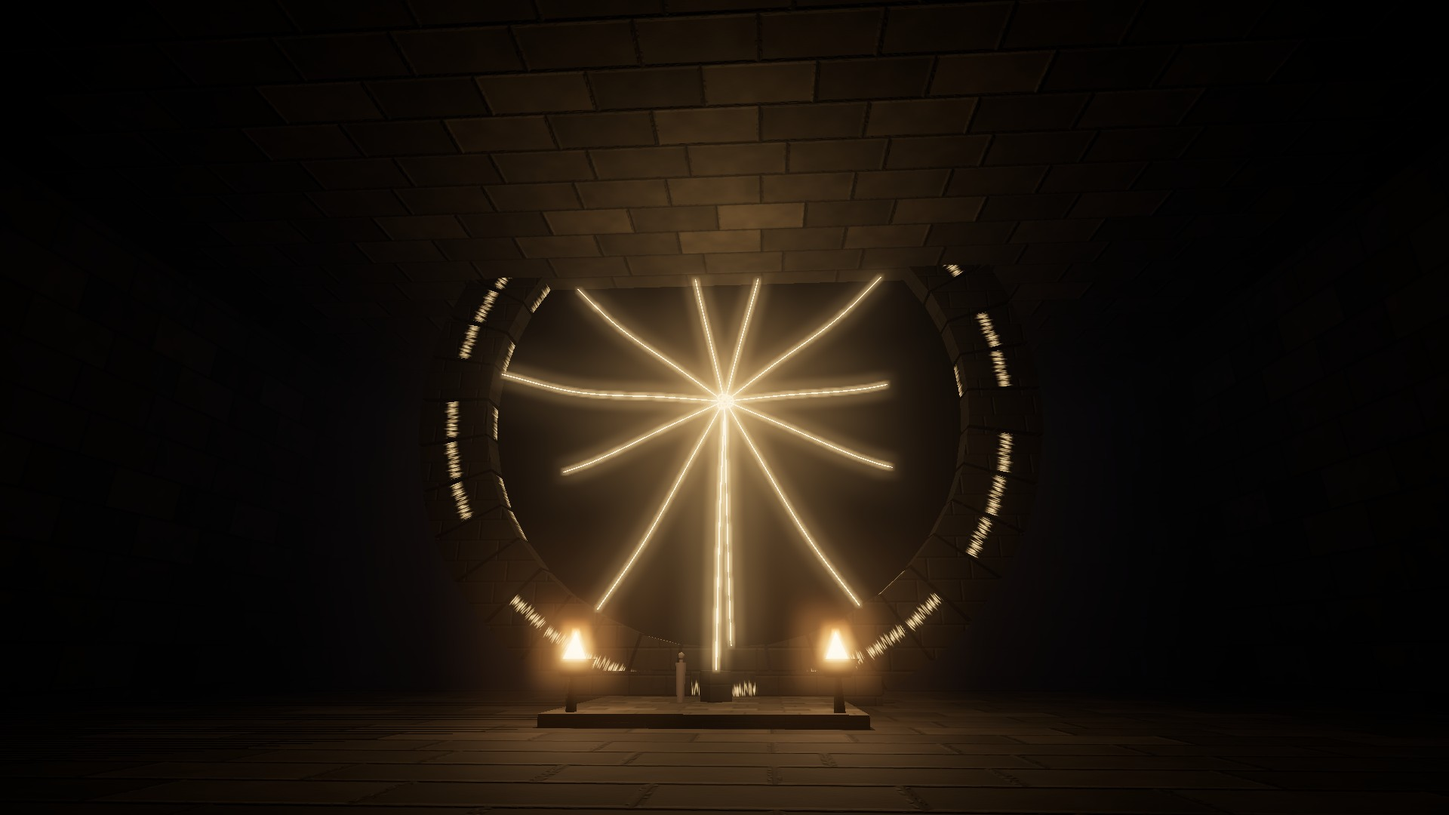
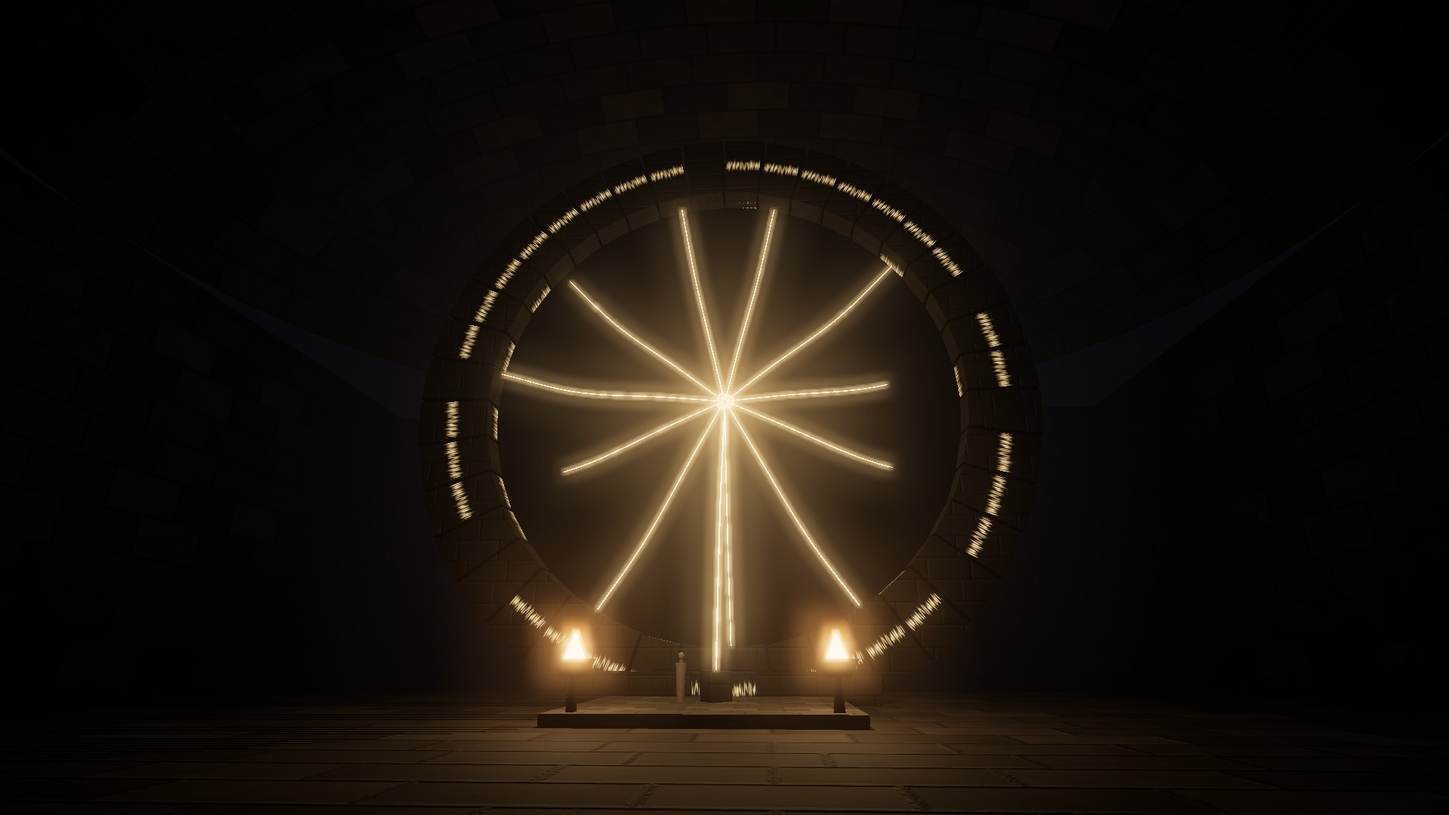
Look: Session 1400 — a great gate's ring and its knot, in the game (#680 A)
Claude-Session: https://claude.ai/code/session_01GE9jd5cRtATADG3dP2aD4v

Changed region(s): [[0.3438, 0.0611, 0.6562, 0.3361], [0.375, 0.3361, 0.4062, 0.3667], [0.375, 0.1222, 0.4062, 0.1528]]

diff --git a/js/56-dungeon-build.js b/js/56-dungeon-build.js
@@ -978,6 +978,72 @@ function gateFallBuild(gen){const out=[];
         put(SK.rbox(sz*1.4,sz,sz*1.1,sz*.25,1),b.col.clone().multiplyScalar(.75+Math.random()*.35),fx+nx*d+ax*a,sz*.4,fz+nz*d+az*a,Math.random()*Math.PI,(Math.random()-.5)*.6,(Math.random()-.5)*.6);}}
     const m=dunMerge(parts,'fall');m.position.set(cx,b.y||0,cz);m.castShadow=m.receiveShadow=true;m.userData.fall=b;dScene.add(m);b.mesh=m;out.push(m);}
   return out;}
+// S1400 — a great gate's ring and its knot (#680, Michael's A: the knot within reach, 2.1 m over the dais), ported from the prototype's
+// greatKnot (docs/prototypes/levelup/props.js, Session 1376) for the new look; knotLay (87-world-quests.js) places it and keeps its torus
+// knot on the old look and as the fallback. In the prop's frame y 0 is the dais's top, +z faces the way in, and the ring stands free
+// on the chamber's floor behind the dais: 40 voussoirs, 30.8 m high at most, scaled down whole (to 0.6) so its top clears the dome
+// by o.ceil(x, z) (the roof over the chamber's floor at a point of the prop's frame) less 1.2 m. The script round its face and soffit,
+// the dark at its heart, eleven threads of the school's light drawn from the soffit into the knot. o.state 'untied', 'torn' (no knot:
+// each thread's end hangs short, the two sides apart, the light at a third) or 'sealed' (smaller, tighter, a pale whipping round it).
+// Returns {group, knot (its own group at the knot's place, so it turns in place; null when cut), tris, draws, scale, top}.
+const GK_GLOW={tine:[1,.34,.1],uisce:[.3,.72,1],cloch:[1,.66,.3],scath:[.7,.34,1],solas:[1,.86,.52],gaoth:[.66,.92,1]};
+let GK_MAT=null;
+function gkScriptTex(r){const c=document.createElement('canvas');c.width=64;c.height=512;const x=c.getContext('2d');x.fillStyle='#000';x.fillRect(0,0,64,512);
+  x.strokeStyle='#fff';x.lineWidth=4.5;x.lineCap='round';for(let y=10;y<500;y+=22+r()*8){x.beginPath();const n=2+Math.floor(r()*3);
+    for(let k=0;k<n;k++){const a=14+r()*36,b=y+r()*16;k?x.lineTo(a,b):x.moveTo(a,b);}x.stroke();if(r()<.4){x.beginPath();x.arc(32,y+8,4+r()*4,0,6.3);x.stroke();}}
+  const t=new THREE.CanvasTexture(c);t.wrapT=THREE.RepeatWrapping;return t;}
+function gkMats(school,state){if(!GK_MAT){GK_MAT={tex:gkScriptTex(PKIT.stream('knot-script')),void:new THREE.MeshBasicMaterial({color:0x020203}),
+    stone:(()=>{const m=PKIT.gl.mats().ashlar.clone();m.color.setHex(0x3a3734);m.roughness=.75;return m;})(),
+    bound:new THREE.MeshStandardMaterial({color:0xe8e0cc,emissive:new THREE.Color(1,.94,.82),emissiveIntensity:.6,roughness:.6,metalness:0})};}
+  const M=GK_MAT,G=GK_GLOW[school],k=school+':'+state,glow=state==='torn'?.32:state==='sealed'?.64:1; /* the prototype's 2.2, 1.4 and .7 over 2.2: the dungeon's frame has no tone mapping, and over 1 Tine's orange clips to yellow */
+  if(!M['s:'+k]){M['s:'+k]=new THREE.MeshStandardMaterial({color:0,emissive:new THREE.Color(...G),emissiveMap:M.tex,emissiveIntensity:glow*.8,roughness:.7,metalness:0});
+    M['t:'+k]=new THREE.MeshStandardMaterial({color:new THREE.Color(...G).multiplyScalar(.2),emissive:new THREE.Color(...G),emissiveIntensity:glow,roughness:.5,metalness:0});
+    M['k:'+k]=new THREE.MeshStandardMaterial({color:new THREE.Color(...G).multiplyScalar(.35),emissive:new THREE.Color(...G),emissiveIntensity:state==='sealed'?.35:.55,roughness:.55,metalness:0});}
+  return {stone:M.stone,void:M.void,bound:M.bound,script:M['s:'+k],thread:M['t:'+k],knot:M['k:'+k]};}
+function greatKnotProp(o){o=o||{};const school=GK_GLOW[o.school]?o.school:'cloch',state=o.state||'untied',r=PKIT.stream('knot:'+school),M=gkMats(school,state);
+  const B=new Map(),put=(geo,key,x,y,z,rx,ry,rz,uv)=>{const g=geo.index?geo.toNonIndexed():geo;for(const a of Object.keys(g.attributes))if(!['position','normal','uv'].includes(a))g.deleteAttribute(a);
+    if(uv&&g.attributes.uv){const U=g.attributes.uv;for(let i=0;i<U.count;i++)U.setXY(i,U.getX(i)*uv,U.getY(i)*uv);}
+    g.applyMatrix4(new THREE.Matrix4().compose(new THREE.Vector3(x||0,y||0,z||0),new THREE.Quaternion().setFromEuler(new THREE.Euler(rx||0,ry||0,rz||0,'YXZ')),new THREE.Vector3(1,1,1)));
+    if(!B.has(key))B.set(key,[]);B.get(key).push(g);};
+  // the ring's size: the prototype's 30.8 m, or less where the dome comes down (its top and its shoulders, over the face and the back)
+  const FL=-.4,ceil=o.ceil||(()=>99);let s=1;
+  for(;s>.6;s-=.02){const RO=16*s,D=3*s,Zr=-6.1-D/2,hc=RO-1.2*s;let fits=true;
+    for(let i=0;i<=20&&fits;i++){const a=i/20*Math.PI,x=Math.sin(a)*RO,y=hc+Math.cos(a)*RO;for(const z of [Zr-D/2,Zr+D/2])if(y+1.2>ceil(x,z))fits=false;}if(fits)break;}
+  const RO=16*s,RI=12.4*s,D=3*s,Zr=-6.1-D/2,Cy=FL+RO-1.2*s,N=40,gap=.006;
+  for(let i=0;i<N;i++){const a0=i/N*Math.PI*2+gap,a1=(i+1)/N*Math.PI*2-gap,am=(a0+a1)/2;
+    if(Cy+Math.cos(am)*(RO+RI)/2<FL-.6)continue;
+    const j=(r()-.5)*.08,pt=(rr,a)=>new THREE.Vector2(Math.sin(a)*rr,Math.cos(a)*rr),sh=new THREE.Shape([pt(RI+j,a0),pt(RI+j,a1),pt(RO+j,a1),pt(RO+j,a0)]);
+    const g=new THREE.ExtrudeGeometry(sh,{depth:D+(r()-.5)*.12,bevelEnabled:false});g.translate(0,0,-D/2);put(g,'stone',0,Cy,Zr,0,0,0,.25);
+    const mid=(RO+RI)/2,arc=(a1-a0)*mid;put(new THREE.PlaneGeometry(.9*s,arc*.96).rotateZ(Math.PI/2),'script',Math.sin(am)*mid,Cy+Math.cos(am)*mid,Zr+D/2+.03,0,0,-am);
+    const so=new THREE.PlaneGeometry(1.6*s,(a1-a0)*RI*.96);so.rotateZ(Math.PI/2);so.rotateX(Math.PI/2);put(so,'script',Math.sin(am)*(RI-.02),Cy+Math.cos(am)*(RI-.02),Zr,0,0,-am);}
+  for(const e of [-1,1])put(new THREE.BoxGeometry(5.5*s,1.6,D+1.6),'stone',e*4.2*s,FL+.6,Zr,0,0,0,.3);
+  put(new THREE.CircleGeometry(RI+.05,64),'void',0,Cy,Zr);
+  // the threads, from the soffit to the knot 2.1 m over the dais (Michael's A on #680), or cut short and hanging
+  const K=new THREE.Vector3(0,2.1,-1.2),knotR=state==='sealed'?.24:.3,NT=11;
+  const tube=(pts,rad,key,seg,rs)=>{const c=new THREE.CatmullRomCurve3(pts),g=new THREE.TubeGeometry(c,seg||48,rad,rs||5),uv=g.attributes.uv,L=c.getLength();
+    for(let i=0;i<uv.count;i++)uv.setXY(i,uv.getY(i),uv.getX(i)*L*1.5);put(g,key);};
+  const ends=[];
+  for(let i=0;i<NT;i++){const th=(i+.5)/NT*Math.PI*2+(r()-.5)*.2,S=new THREE.Vector3(Math.sin(th)*(RI-.1),Cy+Math.cos(th)*(RI-.1),Zr+(r()-.5)*1.4*s);
+    const side=Math.sin(th)>=0?1:-1,toward=K.clone().add(new THREE.Vector3(Math.sin(th)*knotR,Math.cos(th)*knotR*.8,0));
+    const mid=new THREE.Vector3(S.x*.35,Math.max(K.y+3,S.y*.55+K.y*.45),(Zr+K.z)/2+.6);
+    const pts=[S,S.clone().lerp(mid,.5).add(new THREE.Vector3(0,-1.2,.4)),mid,mid.clone().lerp(toward,.6).add(new THREE.Vector3(0,.4,0)),toward];
+    if(state==='torn'){const last=pts.pop(),endAt=K.clone().add(new THREE.Vector3(side*(.35+r()*.25),-.55-r()*.6,(r()-.5)*.3));
+      pts.push(last.clone().lerp(pts[pts.length-1],.3).add(new THREE.Vector3(side*.25,.1,0)),endAt);ends.push(endAt);}
+    tube(pts,.035,'thread');}
+  if(state==='torn')for(const e of ends)for(let f=0;f<3;f++)tube([e,e.clone().add(new THREE.Vector3((r()-.5)*.12,-.08-r()*.1,(r()-.5)*.12))],.01,'thread',3,3);
+  else{const kg=(rad,tr,p,q)=>{const g=new THREE.TorusKnotGeometry(rad,tr,160,8,p,q);g.rotateY(r()*.6);put(g,'kknot');};
+    kg(knotR,.06,2,3);kg(knotR*.72,.045,3,4);
+    if(state==='sealed'){const hp=[];for(let k=0;k<=160;k++){const t=k/160,a=t*Math.PI*2*9;hp.push(new THREE.Vector3(Math.cos(a)*(knotR+.08),(t-.5)*.2,Math.sin(a)*(knotR+.08)));}tube(hp,.014,'kbound',320,4);}}
+  // one mesh a material; the knot's own two in a group at its place
+  const group=new THREE.Group(),knot=state==='torn'?null:new THREE.Group();let tris=0,draws=0;
+  const MK={stone:M.stone,script:M.script,void:M.void,thread:M.thread,kknot:M.knot,kbound:M.bound};
+  for(const [k,gs] of B){let n=0;for(const g of gs)n+=g.attributes.position.count;const P=new Float32Array(n*3),Nn=new Float32Array(n*3),U=new Float32Array(n*2);let at=0;
+    for(const g of gs){const c=g.attributes.position.count;P.set(g.attributes.position.array.subarray(0,c*3),at*3);Nn.set(g.attributes.normal.array.subarray(0,c*3),at*3);if(g.attributes.uv)U.set(g.attributes.uv.array.subarray(0,c*2),at*2);at+=c;g.dispose();}
+    const geo=new THREE.BufferGeometry();geo.setAttribute('position',new THREE.BufferAttribute(P,3));geo.setAttribute('normal',new THREE.BufferAttribute(Nn,3));geo.setAttribute('uv',new THREE.BufferAttribute(U,2));geo.computeBoundingSphere();
+    const m=new THREE.Mesh(geo,MK[k]);m.name='knot:'+k;m.castShadow=false;m.receiveShadow=k==='stone';(k==='kknot'||k==='kbound'?knot:group).add(m);tris+=n/3;draws++;}
+  if(knot){knot.position.copy(K);knot.name='knot';group.add(knot);}
+  group.name='greatKnot';group.userData.greatKnot={school,state,scale:+s.toFixed(2)};
+  return {group,knot,tris:Math.round(tris),draws,scale:+s.toFixed(2),top:+(Cy+RO).toFixed(2),ends:ends.length};}
 // S1376 — whether a gate's floors take Cloch's fallen blocks: a lesser gate (not a great one, not the tutorial) whose door stands on
 // the Mark, while Cloch's toll holds (gateToll, 87-world-quests.js: Cloch torn, and three torn in all). Read on entering, so a gate
 // entered before the toll keeps its passages until you next come in.

diff --git a/js/87-world-quests.js b/js/87-world-quests.js
@@ -2315,11 +2315,20 @@ const giver=`${lord.title} ${lord.name}`;
   let KNOT_LIE=null;
   function knotLay(portal,gen){KNOT_LIE=null;const school=greatSchoolOf(portal);if(!school||!gen||!gen.gate||gen.ring==null)return null;
     const sp=gen.spaces[gen.ring];if(!sp||!sp.dais)return null;const fl=sp.floor||1,x=dAt((sp.dais.x0+sp.dais.x1)/2),z=dAt((sp.dais.z0+sp.dais.z1)/2),y=(fl===2?FLOOR2_Y:0)+.4;
-    const col=parseInt(SCHOOL_DEF[school].col.slice(1),16),g=new THREE.Group();
-    const knot=new THREE.Mesh(new THREE.TorusKnotGeometry(.9,.11,128,10,2,3),new THREE.MeshLambertMaterial({color:0x14110e,emissive:col,emissiveIntensity:.35}));
-    knot.position.y=2.4;g.add(knot);g.position.set(x,y,z);g.userData.knot=school;dScene.add(g);
+    const g=new THREE.Group();g.position.set(x,y,z);g.userData.knot=school;dScene.add(g);
+    // S1400 — the ring stands behind the dais from the way in (the threshold into the ring chamber), the knot before it (#680 A)
+    {const t=(gen.thresholds||[]).find(t=>(t.a===gen.ring||t.b===gen.ring)&&(t.floor||1)===fl);if(t){const dx=dAt(t.c)-x,dz=dAt(t.r)-z;g.rotation.y=Math.abs(dx)>Math.abs(dz)?(dx>0?Math.PI/2:-Math.PI/2):(dz>0?0:Math.PI);}}
     const name=portal.canonicalName||(typeof dungeonName==='function'?dungeonName(portal.seed,portal.theme):'the great gate');
-    KNOT_LIE={x,z,floor:fl,school,name,mesh:g,knot};return KNOT_LIE;}
+    KNOT_LIE={x,z,floor:fl,school,name,mesh:g,knot:null};knotDress();return KNOT_LIE;}
+  // the knot as it stands now: the look builder's ring and knot (greatKnotProp, 56-dungeon-build.js) on the new look, the plain torus
+  // knot on the old look or if the prop fails; called by knotLay and again when the knot is cut or bound
+  function knotDress(){const L=KNOT_LIE;if(!L||!L.mesh)return;const g=L.mesh,st=greatGateState(L.school),state=st==='torn'?'torn':st==='sealed'?'sealed':'untied';
+    while(g.children.length){const c=g.children.pop();c.traverse(o=>{if(o.geometry)o.geometry.dispose();});}L.knot=null;
+    if(typeof OG_LOOK!=='undefined'&&OG_LOOK==='new'&&typeof greatKnotProp==='function')try{const th=g.rotation.y,c=Math.cos(th),s=Math.sin(th),f=D_CEIL[L.floor];
+      const P=greatKnotProp({school:L.school,state,ceil:(lx,lz)=>f?f((L.x+lx*c+lz*s)/DCELL,(L.z-lx*s+lz*c)/DCELL)-.4:99});g.add(P.group);L.knot=P.knot;L.prop=P;return;}catch(e){console.warn('greatKnotProp',e);}
+    const col=parseInt(SCHOOL_DEF[L.school].col.slice(1),16);
+    const knot=new THREE.Mesh(new THREE.TorusKnotGeometry(.9,.11,128,10,2,3),new THREE.MeshLambertMaterial({color:0x14110e,emissive:col,emissiveIntensity:.35}));
+    knot.position.y=2.4;knot.visible=state!=='torn';g.add(knot);L.knot=knot;L.prop=null;}
   function knotNear(){const L=KNOT_LIE;return !!(L&&activeZoneId==='dungeon'&&currentFloor===L.floor&&Math.hypot(px-L.x,pz-L.z)<2.6);}
   // the first sight of the ring, once a gate (called from the dungeon's frame); worldState.greatGates.ev.ring records it (the way back's)
   function knotTick(){const L=KNOT_LIE;if(!L||activeZoneId!=='dungeon'||currentFloor!==L.floor)return false;if(L.knot)L.knot.rotation.y+=.002;
@@ -2332,7 +2341,7 @@ const giver=`${lord.title} ${lord.name}`;
     if(!st){if(t.knife&&t.needle)return `The knot of ${n} — Press 'E'`;if(t.knife)return `The knot of ${n} — Press 'E' to cut it`;if(t.needle)return `The knot of ${n} — Press 'E' to bind it`;return `The knot of ${n}`;}
     if(st==='torn')return t.needle&&!greatFate()?`The cut knot of ${n} — Press 'E' to bind it`:`The cut knot of ${n}`;
     return t.knife&&!greatFate()?`The bound knot of ${n} — Press 'E' to cut it`:`The bound knot of ${n}`;}
-  function _knotSay(r,kind){const L=KNOT_LIE,S=SCHOOL_DEF[L.school].name,K=KNOT_LINES[kind];
+  function _knotSay(r,kind){knotDress();const L=KNOT_LIE,S=SCHOOL_DEF[L.school].name,K=KNOT_LINES[kind];
     const first=kind==='bind'&&r.fate==='sealed'?KNOT_LINES.lockSeal:r.again?K.again:K.first;
     showMsg(first+' '+K.school[L.school],'#c8d0e0');const second=kind==='tear'?KNOT_LINES.gain(S,L.name):KNOT_LINES.cost(S,L.name);
     setTimeout(()=>{try{showMsg(second,kind==='tear'?'#d8b04a':'#9a9a92');}catch(e){}},1600);
@@ -2355,7 +2364,7 @@ const giver=`${lord.title} ${lord.name}`;
     {const el=document.getElementById('dlg-text');if(el)el.innerHTML=`${KNOT_LAST.ask}<br><br><span style="color:#8a8478;font-size:.9em">${KNOT_LAST.warn}</span>`;}
     return {ok:false,ask:true};}
   function knotUnmake(){const L=KNOT_LIE;if(!L||!knotLastCut(L.school))return null;if(varekStandDue(L.school))return {ok:false,stand:true};
-    if(typeof SS!=='undefined')SS.unmaking=true;const r=cutKnot(L.school,L.name);if(!r.ok){if(typeof SS!=='undefined')SS.unmaking=false;return r;}
+    if(typeof SS!=='undefined')SS.unmaking=true;const r=cutKnot(L.school,L.name);if(!r.ok){if(typeof SS!=='undefined')SS.unmaking=false;return r;}knotDress();
     const S=SCHOOL_DEF[L.school].name,t0=performance.now();showMsg(KNOT_LINES.tear.first+' '+KNOT_LINES.tear.school[L.school],'#c8d0e0');
     const at=(ms,f)=>setTimeout(()=>{try{f();}catch(e){console.warn('unmake',e);}},Math.max(0,ms-(performance.now()-t0)));
     at(2500,()=>showMsg(KNOT_LINES.gain(S,L.name),'#d8b04a'));

diff --git a/docs/prototypes/levelup/greatknot.js b/docs/prototypes/levelup/greatknot.js
@@ -16,7 +16,7 @@ scene.add(new THREE.HemisphereLight(new THREE.Color(.30, .32, .40), new THREE.Co
 // the chamber: floor, four walls of 22 m and a dome to 38 m
 const stone = mat('ashlar', { ns: 1.0, color: 0x6c665e }), slab = mat('slab', { ns: .8, color: 0x5a554e, rough: .45 });
 { const g = new THREE.PlaneGeometry(60, 60); g.rotateX(-Math.PI / 2); worldUV(g, .2); const m = new THREE.Mesh(g, slab); m.position.y = -.4; m.receiveShadow = true; scene.add(m); }
-{ const g = new THREE.BoxGeometry(60, 22, 60); worldUV(g, .12); const m = new THREE.Mesh(g, stone.clone()); m.material.side = THREE.BackSide; m.position.y = 10.6; m.receiveShadow = true; scene.add(m); }
+{ const g = new THREE.BoxGeometry(60, 22, 60); worldUV(g, .12); const keep = g.groups.filter((q, i) => i !== 2); g.clearGroups(); keep.forEach(q => g.addGroup(q.start, q.count, 0)); /* S1400 — no top face: the dome is the roof (the critic, 25 Oct: the box's lid at 21.6 m cut the ring) */ const m = new THREE.Mesh(g, [stone.clone()]); m.material[0].side = THREE.BackSide; m.position.y = 10.6; m.receiveShadow = true; scene.add(m); }
 { const g = new THREE.SphereGeometry(30, 48, 16, 0, Math.PI * 2, 0, Math.PI / 2); g.scale(1, 16 / 30, 1); worldUV(g, .12); const m = new THREE.Mesh(g, stone.clone()); m.material.side = THREE.BackSide; m.position.y = 21.6; scene.add(m); }
 // the dais, the game's 10 m by 0.4
 { const g = new THREE.BoxGeometry(10, .4, 10); worldUV(g, .3); const m = new THREE.Mesh(g, mat('ashlar', { ns: .8, color: 0x8a847a })); m.position.y = -.2; m.receiveShadow = m.castShadow = true; scene.add(m); }

diff --git a/docs/backlog.md b/docs/backlog.md
@@ -585,7 +585,7 @@ Michael marked all 96 images of the intake on the review page: 63 KEEP and 33 NO
 - **Spells as keys, and secrets** (systems builder, `64-spells.js` and `68-dungeon-misc.js`; OG-122): one key a school: Tine heats a mechanism and melts ice, Uisce raises and lowers water, Cloch moves masonry, Scáth shows a path through shadow, Solas turns light onto a pillar, Gaoth drives an air platform. Mechanisms (a counterweight lift that lowers a bridge, a sluice, pressure plates in sequence), hidden architecture (a sliding wall, a rotating chamber, a stair under the floor), quiet tells (a draught, an echo, an object out of place) and wordless stories (an explorer's last camp, a barricade). A puzzle of the sigil script costs what reading costs (§3.1), never a free cipher.
 - **What a gate keeps** (loot in `14-items.js`, systems builder; OG-123): a great gate's vault under a turning armillary ring between two hooded statues, a lesser gate's chest on a dais in a shaft of light, a script-locked cache, a crystal vein; a broken relic that joins with others, a focus for spells, a wall-sized map, other explorers' journals, mechanism keys; gate crystal, star metal, luminous resin. The canon's gate economy leads: rubbings, relics and the sigils themselves. A dragon scale only from a catastrophic gate (§5). No “code fragments” and no lost empire.
 - **Off the road** (the chunk scatter and points of interest, quest writer's leads; OG-124): overgrown arches by falls, a cave behind a waterfall, a shepherd's hut, a peat-cutting camp (Gatelands); a hunting cabin in snow pines, an ice cave mouth, a logging camp (the Mark); a coastal watchtower, a smuggler's cove, a ruined aqueduct (Aurenne, in its own plaster and tile, not Tuscan stone). Camps on the roads (merchants, hunters, pilgrims, charcoal burners, an abandoned expedition) and small mysteries with no marker: an overturned carriage, a lone grave under a ringed cross, strange tracks, a locked cellar. Finds in four tiers by time spent, minutes to hours. **The Gatelands' peat-cutting camp, Session 991 (prototype; OG-124, OG-014, OG-099):** `gatelandsPeatCamp` in `places.js`, `places.html?place=peat`. It is a hand-cut turf bank 36 m long on a raised bog: the face is cut about 1.3 m down in two spits, with a bench 0.8 m down, and there is water in the cutaway's hollows. On the bank lie about 420 sods spread and about 110 footed, with a turf barrow, a creel and the sleán. The rick stands by the gravel bog road, beside a sod bothy under roped thatch and a fire with a crane and kettle. It comes to 39,000 triangles in 20 meshes; `places.check.mjs` 119 of 119. Still open: the arches and the cave behind falls, the Mark's ice cave mouth, Aurenne's smuggler's cove, and the road camps. **The Gatelands' abandoned shepherd's hut, Session 997 (prototype; OG-124, OG-014, OG-077):** `gatelandsShepherdHut` in `places.js`, `places.html?place=shepherd`. It is a summer hut on the hill pasture, after the booley huts of Slievemore: 6.0 by 4.2 m of dry stone cut into a 1-in-7 slope, the west gable standing to its chimney, the east fallen in a heap, the roof gone with two rafters slid down onto the floor and the ridge pole among the rotted thatch. Beside it are a round fold 8.4 m across with its gate, its hurdle and a breach downhill, a rowan by the door, a lined spring under a slab hood, the worn track, bracken and foxglove. It comes to 31,000 triangles in 18 meshes; `places.check.mjs` 128 of 128. **The Mark's hunting cabin, Session 998 (prototype; OG-124, OG-025):** `markHuntingCabin` in `places.js`, `places.html?place=cabin`. It is a laft cabin of 61 notched logs, 3.8 by 4.6 m on corner stones, under a turf roof with 0.25 m of snow and crossed barge boards. The chimney smokes, the window is lit and antlers hang over the door. A stabbur on rat stones stands beside it, with steps stopped 0.44 m short. There are split wood under the eaves, a chopping block with its axe, a hide on its frame, snowshoes and trodden paths between banks of thrown snow, all in a clearing of 74 snowed spruce. It comes to 36,500 triangles in 17 meshes; `places.check.mjs` 136 of 136. **The Mark's abandoned logging camp, Session 999 (prototype; OG-124):** `markLoggingCamp` in `places.js`, `places.html?place=logging`. It is a winter felling left mid-season on a 1-in-4.5 slope over a frozen river. There are 50 stumps under snow, with an axe left in one, and a deck of 18 logs on two skids. A timber chute of paired logs runs 42 m down to the ice on trestles at one grade, with one length fallen beside its gap. There are also a gapahuk (log lean-to) with a bed of boughs and a cold fire, and a log sledge with a log chained on it. It comes to 33,000 triangles in 13 meshes; `places.check.mjs` 143 of 143. **The Mark's ice cave mouth, Session 1006 (prototype; OG-124, OG-121):** `markIceMouth` in `places.js`, `places.html?place=icemouth`. It is the outside of the ice cavern: a glacier's snout 17 to 20 m high between rock walls, banded with grit and fluted by runnels. A meltwater tunnel comes out under it, an arch 8 by 5.6 m narrowing over 18 m to 6 by 4.6 m, clear, then blue, then dark, with icicles that leave a man's head clear. The stream runs out over the gravel through a gap in a terminal moraine of boulders 26 m out, past a cairn, with calved blocks at the face's foot and crevasses on the snow above. It comes to 32,100 to 32,700 triangles in 12 meshes; `places.check.mjs` 151 of 151. **Aurenne's smuggler's cove, Session 1007 (prototype; OG-124, OG-121):** `aurenneCove` in `places.js`, `places.html?place=cove`. It is a narrow inlet between pale limestone cliffs 20 m high, 14 m across at its head and opening to 38 m. At its head is a beach of sand 15 m long, with three boathouses in the west cliff's foot behind plastered fronts. Their doors are blue, 3 by 3 m; the middle one is open on the dark and the third has a slip into the sea. Bales, amphorae and casks lie on the sand, and a rowing boat is drawn up. A stair of 105 steps, cut half into the east cliff and built out on a wall, runs to the top with a landing every 18 and a parapet. On the top stands a lookout's hut with its window to the sea (`&night`, its lamp lit), and Aurenne's sloop lies at anchor. It comes to 24,900 triangles in 16 meshes, 48,700 with the sloop; `places.check.mjs` 158 of 158. Still open: the arches and the cave behind falls (Gatelands) and the road camps. **The Gatelands' falls, Session 1012 (prototype; OG-124):** `gatelandsFalls` in `places.js`, `places.html?place=falls`. It is a glen ending in a limestone head-wall 11 to 12 m high, banded and undercut 2.4 m round the fall, after Glencar and Ess-na-Larach. The river leaves the lip 5 m wide and lands 3 m out in a pool 12 m across and 2.6 m deep. A rock shelf 1.2 m over the pool runs under the overhang, behind the curtain (3.4 m or more of water between it and the walker), to a cave 3.4 by 3.2 m that narrows over 10 m into the dark (Seljalandsfoss). Down the glen, the path passes through the first bay of a ruined arcade of three round arches on square piers, under ivy, with the fourth arch fallen in the grass (Glendalough by Poulanass). Oak and ash stand on the sides, with ferns by the water. It comes to 38,000 to 38,500 triangles in 18 meshes; `places.check.mjs` 167 of 167. Still open in OG-124: the road camps. **The Gatelands' charcoal burners' camp, Session 1016 (prototype; OG-124):** `gatelandsCharcoalCamp` in `places.js`, `places.html?place=charcoal`. It is a colliers' camp by a road through oak and hazel coppice, after the Lake District's and the Weald's. A stack of sammel 4.8 m across and 1.9 m high stands on its black hearth under about 110 sods, smoking from its flue and vents, with three hurdles to windward and a ladder on its flank. On a second hearth, a burn is drawn and cooling, with seven sacks filled and a riddle. There are 5 m of cordwood and a beehive hut of sods with a door of 0.84 by 1.6 m and its fire, and a cart on the road. It comes to 38,400 to 39,000 triangles in 19 meshes; `places.check.mjs` 176 of 176. **The Gatelands' merchants' halt, Session 1021 (prototype; OG-124):** `gatelandsMerchantCamp` in `places.js`, `places.html?place=merchants` (`&dusk` the lantern and the fire lit). It is a carriers' halt on a green by a ford, after the old roads' tilt waggons and the drovers' stances. Two tilt waggons stand on four spoked wheels each, under canvas 2.8 m to the crown, their shafts down. A canvas fly is laced to the first waggon's tilt and carried 3 m out on two guyed poles, over two trestles of cloth bolts in three dyes and of crocks and a chest, with a lantern on the right pole. There are a fire with an iron crane and pot and two seat logs; a ridge tent 2.6 by 2.2 m with its door to the fire; a picket line at 1.3 m with hay and buckets; and casks, wool bales and crates stacked by the second waggon. A stream in a gravel bed crosses the road at a ford 0.19 m deep, with six stepping stones and a watering place eased into its west bank. A thorn hedge, ash and alder stand round it. It comes to 35,800 to 36,200 triangles in 20 meshes; `places.check.mjs` 185 of 185. **The Mark's hunters' camp, Session 1022 (prototype; OG-124):** `markHuntersCamp` in `places.js`, `places.html?place=hunters` (`&dusk` the fires glowing). It is a party's autumn camp by a road in birch and pine heath. A tent of hides on a cone of 12 poles stands 4.8 m across, its poles crossing at 3.4 m and the cover rising to 2.85 m; its door is 1.2 m wide and 1.5 m high under the rolled door hide, with a fire and bedding inside. There is a pole rack at 1.8 m hung with 25 strips of meat over a slow fire, a hide laced into a leaning frame, and a game pole lashed between two pines at 2.6 m with an empty gambrel and a tub. A woodpile against a boulder, a chopping stump with its axe and a rack of three spears stand among heather and granite. It comes to 24,600 to 24,800 triangles in 15 meshes; `places.check.mjs` 194 of 194. **Aurenne's abandoned expedition, Session 1023 (prototype; OG-124):** `aurenneExpedition` in `places.js`, `places.html?place=expedition`. It is a dig's camp on a dry hillside, left in haste weeks ago. On a terrace cut into the slope are a ridge tent still standing, its door flap torn, and a second fallen from its front pole. There are a cold fire with its pot on its side and a stool knocked over; a handcart down on one side with its other wheel lying flat and its crates spilled, one burst; and a folding table on its side, a fallen surveyor's tripod, a lantern and papers under stones. Above an old dry-stone terrace wall, reached by a ramp through its gap, a trench 6 by 1.5 m and 1.6 m deep is cut, with a ladder, a spoil heap with a pick and shovel left in it, and a column drum lifted out onto its lip. Olives, cypresses, maquis and pale limestone stand around it. It comes to 27,700 to 27,800 triangles in 16 meshes; `places.check.mjs` 202 of 202. What they found and why they ran is the quest writer's. **The Gatelands' overturned carriage, Session 1025 (prototype; OG-124 panel 6, the first small mystery):** `gatelandsCarriage` in `places.js`, `places.html?place=carriage`. The game's road coach (S261) at true size lies on its near side in a field over the ditch from a lane: its right wheels up and flat, the fore-carriage turned, the right door standing open past upright onto the dark inside, the near rear wheel broken off and the near front one lying flat, the pole snapped, the four traces cut short at the splinter bar, the far lamp still burning. Two gouges run from the lane over the ditch to it; the whip lies in the road and a hat in the ditch; the luggage is thrown towards a dry-stone wall, one trunk burst with its clothes out. It comes to 35,900 to 36,300 triangles in 19 meshes; `places.check.mjs` 210 of 210. Who was in it is the quest writer's. **The Gatelands' locked cellar, Session 1026 (prototype; OG-124 panel 6):** `gatelandsCellar` in `places.js`, `places.html?place=cellar`. A cottage long fallen in a field: footings of rubble stone 0.3 to 0.85 m high in nettles, the west gable whole to its apex at 4.6 m with its stack, its fireplace and a patch of limewash, rubble along the walls, an elder against the east end. In the floor at the east end is a cellar hatch in a dressed-stone kerb, two grey oak leaves on strap hinges, and across them a chain held by a new, bright padlock. The grass is worn from the lane through the doorway to the hatch and nowhere else. It comes to 21,900 to 22,100 triangles in 12 meshes; `places.check.mjs` 216 of 216. Who comes, and what is below, is the quest writer's. **The Gatelands' perched stone, Session 1031 (prototype; OG-124 panel 6, "an odd rock"):** `gatelandsErratic` in `places.js`, `places.html?place=erratic`. A bare hill of limestone pavement after the Burren: about 250 clints in two sets of joints, cut by grykes 0.12 to 0.26 m wide and 0.85 m deep with hart's-tongue in them, running out into the turf at a ragged edge. On it a boulder of a dark stone that is not the hill's, 2.2 to 2.5 m high, sits on a waisted pedestal of the pale limestone 0.5 to 0.8 m high and overhangs it all round (after the Norber erratics: the ice left it, the rain took the pavement down except where it kept it dry); a smaller stranger lies nearby. A lace wall of single slabs with daylight through it crosses the hill above, hazel grows from the grykes, a hawthorn is bent by the west wind, ash stand by a green road. It comes to 37,100 to 38,100 triangles in 11 meshes; `places.check.mjs` 223 of 223. Whether it is a lead is the quest writer's. **The Mark's unfinished camp, Session 1032 (prototype; OG-124 panel 6):** `markUnfinishedCamp` in `places.js`, `places.html?place=unfinished`. A camp begun in a spruce clearing by a road and never finished: the ridge tent's back pole stood and guyed with the ridge pole leaned on it and the canvas still rolled at its foot, the front pole, pegs and mallet laid out, a bedroll half unrolled; a fire laid on birch bark in its ring and never lit, the kettle by it; a pulk half unloaded with its shafts down; the axe left in the chopping round, a few billets split, brush gathered. Snow has fallen on all of it, and there is no track in it, in or out. It comes to 22,200 to 22,300 triangles in 13 meshes; `places.check.mjs` 230 of 230. Who, and why they stopped, is the quest writer's. Still open: the pilgrims' rest (it wants the canon on whose pilgrims, and to where) and the other small mysteries (the lone grave wants the canon on who is buried and why, since the dead go to the gates; strange tracks, whose are the bodies builder's).
-- **The quest props the systems builder left as placeholders** (look builder; `87-world-quests.js` builds them, the prop goes in a world file and the quest code calls it): ~~the Ashfeld's flagstone~~ — done, Session 1360 (`flagstoneProp`, 82); ~~the Gate-Blade's stone~~ — done, Session 1361 (`bladeStoneProp`, 82); ~~the ring's cairn~~ — done, Session 1372 (`ringCairnProp`, 82); ~~the Shuttle in its gate~~ — done, Session 1373 (`shuttleProp`, 56); still owed: the great gates' knot over the ring's dais (Session 1346), prototyped with its ring in three states, Session 1376 (`greatKnot`, props.js, `greatknot.html`; DECISION #680: the knot within reach, at the ring's heart, or alone).
+- **The quest props the systems builder left as placeholders** (look builder; `87-world-quests.js` builds them, the prop goes in a world file and the quest code calls it): ~~the Ashfeld's flagstone~~ — done, Session 1360 (`flagstoneProp`, 82); ~~the Gate-Blade's stone~~ — done, Session 1361 (`bladeStoneProp`, 82); ~~the ring's cairn~~ — done, Session 1372 (`ringCairnProp`, 82); ~~the Shuttle in its gate~~ — done, Session 1373 (`shuttleProp`, 56); ~~the great gates' knot over the ring's dais~~ — done, Session 1400 (`greatKnotProp`, 56, on the new look: Michael's A on #680, the knot within reach 2.1 m over the dais, the 30.8 m ring behind it fitted to the dome; prototyped Session 1376, `greatKnot`, props.js). Every placeholder is now a prop.
 - **Under the sea** (`85-world-sea.js`; OG-125): drowned arches under a coastal town, wrecks at three depths and two lying together from one fight, sunken villages and temples, gate structures still lit under the sea (Uisce, the Mouth), sea caves with air pockets and tunnels between them, a vertical shaft to air, a whale skeleton, and the Abyss at the end (the Root). Air, currents and depth as the risks; Water Breathing and a breathing draught as the gear, never a rebreather or a brass suit. **Begun, Session 1100 (prototype):** the drowned arches under a coastal town, `docs/prototypes/levelup/undersea.js` and `undersea.html?view=swim|arches|alcove|boat|above&water=…`: a quay with two kit houses, an arcade of seven round arches 34 m out with its deck 1.75 m under (a galleon passes over), four bays whole and the deep end fallen, a sand floor from 4.5 to 16 m with a reef, 129 kelp, a sunken rowing boat, a niche behind the kelp with a chest; `undersea.check.mjs` 16 of 16. The water's colour and clarity asked as **DECISION #419**. ~~Wrecks at three depths~~ — done, Session 1101 (prototype: `wreckSite`, `undersea.html?place=wrecks`: a Gatelands sloop thrown on a reef at 9.5 m, a Gatelands cog and the Mark cutter that rammed her at 16 to 18 m, an Aurenne galleon upright and reef-grown at 25.8 m, each settled by her planking into the sand, sails and rigging gone, cargo and a chest about her; `undersea.check.mjs` 27 of 27); ~~their damage~~ — done, Session 1102 (masts broken to stumps with their tops and yards gone and five spars on the sand, the cog stove in where the cutter's stem is, the galleon's starboard quarter fallen in; 30 of 30). ~~Sea caves with air pockets~~ — done, Session 1103 (prototype: `seaCave`, `undersea.html?place=cave&view=mouth|tunnel|pocket|top`: a mouth 9 m down in a cliff, a winding tunnel rising 30 m in to a chamber with 5.5 m of air over its water, a shingle shelf with 48 glowing flowers, a shaft 3 m across up to the land, a side tunnel to a second pocket; `undersea.check.mjs` 41 of 41). ~~The sunken village~~ — done, Session 1104 (prototype: `sunkenVillage`, `undersea.html?place=village&view=lane|house|church|tower`: seven of the kit's cottages along a drowned lane at 11 to 15 m, roofless and broken at ragged heights, the town church roofless at 16 m, its round tower whole with its cap 15.7 m over the sea; `undersea.check.mjs` 49 of 49). ~~The amphitheatre, temples and bridge~~ — done, Session 1107 (prototype: `sunkenQuarter`, `undersea.html?place=quarter&view=temple|bridge|theatre|wide`: a drowned Aurenne quarter, a three-arched bridge 11.65 m under with its middle span fallen onto the river bed, a theatre of nine tiers with one wedge fallen and its stage wall and columns broken, the town church at 23 m with its dome's crown and east half fallen in and its tower broken by the new `clipMesh`; `undersea.check.mjs` 61 of 61). ~~The village's breaks along the stone~~ — done, Session 1108 (`clipMesh` with `fine` and `courses`: walls break in stepped courses of 0.3 m, not slants along the slabs' triangles; 61 of 61). ~~Their tops closed~~ — done, Session 1109 (`clipMesh`'s `capT` lays the slab's thickness as a level top along the break; `undersea.html?place=village&view=walls`; 62 of 62). ~~The whale skeleton~~ — done, Session 1118 (prototype: `whaleFall`, `undersea.html?place=whale&view=whale|skull|cage|over`: a great whale's bones on her left side on sand at 31 to 32 m, 19.3 m from the rostrum's tip to the tail; 46 vertebrae settled in a scour hollow, the last nine scattered; a cage of fourteen ribs on her upper side, nine standing 1.3 to 2.2 m and down into the sand, four midway fallen so there is a way in 1.1 m wide; the skull upright, its two jaws fallen 5.8 m apart; a flipper laid out on the sand; 44,286 triangles in 2 draws; `undersea.check.mjs` 72 of 72). ~~Its bones shaped~~ — done, Session 1120 (centra as spools with a neural arch, a raked spine and tapered processes; the rostrum a broad crowned plate; 50,726 triangles; 72 of 72). Owed: the lit gate structures (Uisce, card F5) and the Abyss (the Root).
 - **One piece in three conditions** (card F5 and card F6's kit, `56-dungeon-build.js`; OG-126): a kit of slabs, walls, arches, pillars, vaults, stairs, bridges, balconies, shafts, chasm edges and script panels, each in a school's dress and in three conditions (whole; cracked and leaning; broken and floating with violet light in the seams). Six layouts for the generator: a linear descent, a branching labyrinth, a hub with shortcuts back, a vertical complex of shafts, a ring of loops, a cave network. Room-and- corridor plans for crypts and caves; a gate's floors in slabs of 2 to 3 m and its spaces at §2's size. **Begun, Session 1097 (prototype):** `docs/prototypes/levelup/gatekit.js` and `gatekit.html?view=kit|piece|hall`: eight pieces at the nave's measures (slab, wall, arch, pier, stair, bridge, balcony, panel) made of their stones, one seeded rule a condition (whole; cracked, leaning 1.5 to 3° with slipped stones and cracks; broken, stones floating or fallen above a ragged line, a violet seam at every seat), dressed by the six schools; `gatekit.check.mjs` 21 of 21. What the floating stones do in the game asked as **DECISION #417**. ~~Vaults, shafts, chasm edges and railings~~ — done, Session 1098 (prototype: `vault`, a rib vault over any bay, the nave vaulted at 21.3 to 33.3 m; `shaft`, a well 6 m across and 12 m deep; `edge`, a chasm's lip whose face below 3.5 m never comes loose; `rail`; `gatekit.check.mjs` 26 of 26). Owed: the six layouts (a generator's, with the systems builder).
 

diff --git a/docs/devlog/1400.md b/docs/devlog/1400.md
@@ -1,0 +1,46 @@
+## v80 — Session 1400 — a great gate's ring and its knot, in the game
+
+Michael answered #680 with A: the knot within reach, 2.1 m over the ring chamber's dais. Session 1346 drew the knot in `knotLay`
+(87-world-quests.js) as a plain torus knot, 2.4 m up, the last placeholder the systems builder left for the look builder. Session 1376
+prototyped the ring and the knot in three states (`greatKnot` in `docs/prototypes/levelup/props.js`). This session brings the prototype's
+low place into the game on the new look.
+
+**The prop.** `greatKnotProp(o)` in `js/56-dungeon-build.js` is a port of `greatKnot`'s low place. It has 40 dressed voussoirs and a
+socket of dressed stone at the ring's foot. The script runs round the face and the soffit, white on the texture, so the school's light
+colours it. The dark disc fills the heart. Eleven threads leave the soffit and are drawn into two interlaced torus knots in a darker
+cord of the school's colour. The prop uses the kit's ashlar (`PKIT.gl.mats()`) at the prototype's 0x3a3734, with one mesh per
+material: 11,128 tris in 5 draws untied, 13,688 in 6 bound. The knot's own meshes sit in a group at its place, so `knotTick`'s slow
+turn spins the knot in place instead of swinging it round the dais. Cut, there is no knot: each thread ends short, frayed, the west
+side's ends apart from the east's (11 ends). Bound, the knot is smaller and tighter, with a pale whipping round its middle.
+
+**Placed by the game's chamber.** `knotLay` now stands the prop at the dais's middle and turns it from the threshold into the ring
+chamber, so you come in facing the ring, with the ring behind the dais. The ring's size comes from the dome. The prototype's 30.8 m
+ring (30.4 over the dais) is scaled down whole, to 0.6 at least, until its top and shoulders clear `D_CEIL` by 1.2 m. Every gate tried
+keeps the full ring, since the chamber's dome is 30 to 40 m by seed. The lowest dome, 30 m, would take it to 27.1 m (scale 0.88).
+`knotDress()` (87) builds the knot for the gate's state (untied, torn or sealed). It is called by `knotLay`, by `_knotSay` after a cut
+or a bind, and by the sixth cut's path. On the old look, or if the prop throws, it builds the old torus knot, which now also hides once
+cut. The edit in 87 is the systems builder's file, kept to `knotLay`, the new `knotDress` and two one-word calls.
+
+**Two changes from the prototype.** The dungeon's frame has no tone mapping (the post is the world's only), so an emissive over 1 clips.
+Tine's orange threads came out yellow in the first picture. The threads' and script's glow is the prototype's 2.2, 1.4 and 0.7 over 2.2
+(1, 0.64, 0.32), which keeps each school's hue. The bound whipping's glow went from 1.6 to 0.6, because at 1.6 it read as a flat white
+band.
+
+**The page.** The critic (25 Oct) found that `greatknot.html`'s chamber was a box with its lid at 21.6 m, under the dome. The flat
+ceiling cut off the ring's top third in every picture sent for #680. The box now has no top face (its +y group is dropped), so the
+dome is the roof. `greatknot-far`, `-far-high` and `-near-high` are shot again.
+
+### Verified (headless Chromium)
+- A check of my own over four great gates (tine medium, scath small, uisce large, cloch massive with its ring on floor two): the prop
+  is laid in every one at scale 1, 30.4 m. Its least clearance under the dome is 3.15, 4.1, 5.02 and 7.91 m. The ring's heart is 7.6 m
+  farther from the way in than the dais is. The knot is 2.1 m over the dais, 1.2 m from its middle (`knotNear`'s 2.6 m holds). Cut:
+  11 ends and no knot. Bound: the knot again.
+- `corruption` 1/1, with two new checks in its great-gate part: the ring behind the dais, 3.08 m under the dome, 13,688 tris and 6 draws
+  bound; the knot at 2.1 m; torn 11 ends, then dressed back to bound. `unmake` 1/1.
+- `greatknot.check.mjs` passed with the box's lid gone, and its pictures were taken again.
+- In-game pictures: `docs/prototypes/levelup/greatknot-ingame-far.jpg`, `-near.jpg`, `-torn.jpg` (Tine's, seed 2055).
+
+### Needs eyes
+- In the game the ring's stone is nearly black from the door. The dungeon's light pool doesn't reach a 30 m ring, so what you see is
+  the script, the threads and the dark disc. That may be right for "dark at its heart", or it may want a light on the dais.
+- The threads still read as lit cords rather than script (the critic's note on the page). That would be a new design, not this port.
